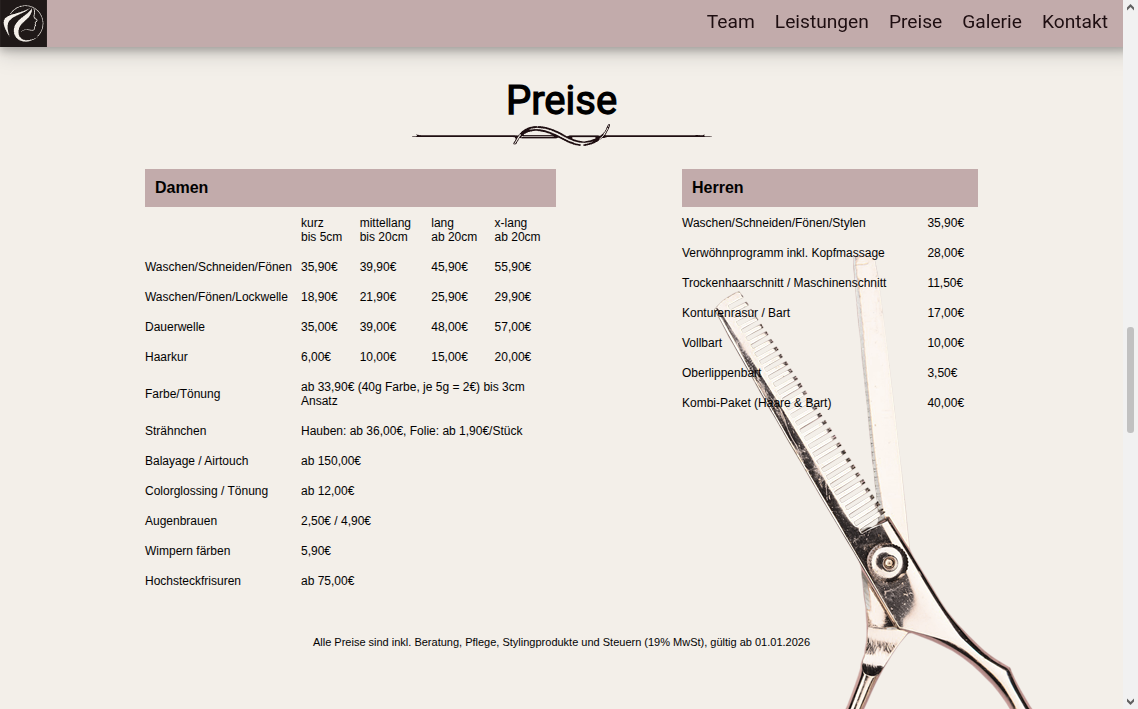
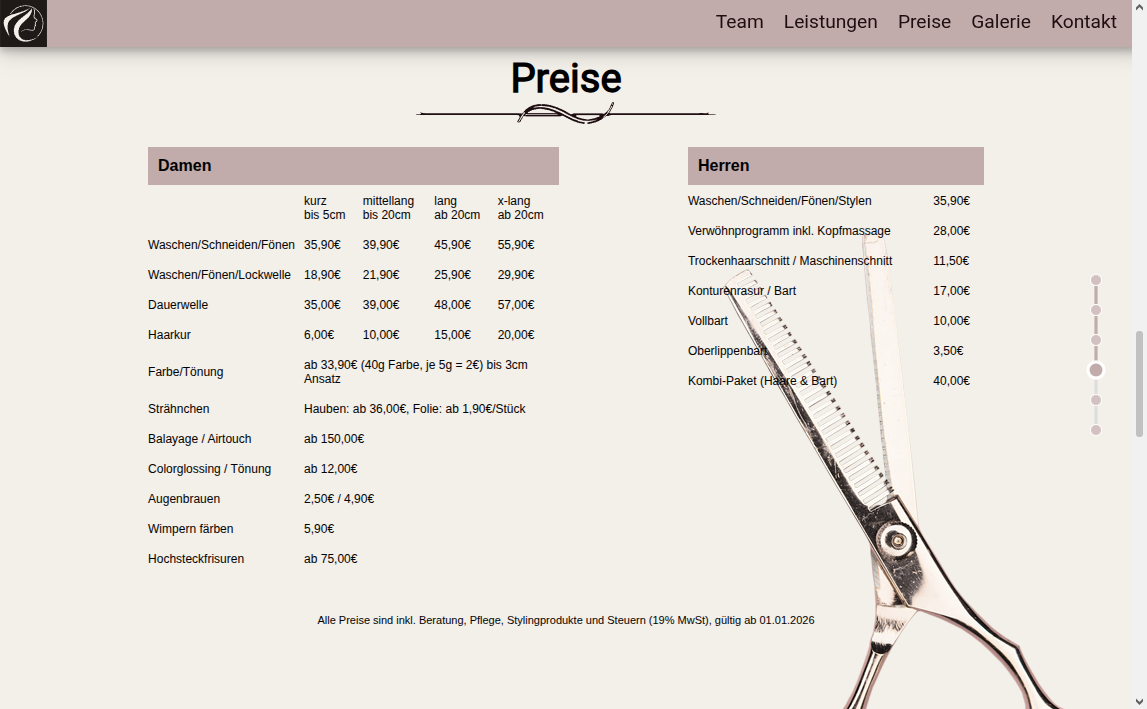
added slider update readme

diff --git a/html/index.html b/html/index.html
@@ -13,10 +13,13 @@
     <link rel="stylesheet" href="https://cdnjs.cloudflare.com/ajax/libs/font-awesome/7.0.1/css/all.min.css"
         integrity="sha512-2SwdPD6INVrV/lHTZbO2nodKhrnDdJK9/kg2XD1r9uGqPo1cUbujc+IYdlYdEErWNu69gVcYgdxlmVmzTWnetw=="
         crossorigin="anonymous" referrerpolicy="no-referrer" />
+    
     <link rel="stylesheet" href="../css/style.css">
+    <link rel="stylesheet" href="../css/progress.css">
     <link rel="stylesheet" href="../css/gallery.css">
 
     <script src="../js/nav.js" defer></script>
+    <script src="../js/progress.js" defer></script>
 </head>
 
 <body>
@@ -52,8 +55,21 @@
     </header>
 
     <main>
+        <!-- PROGRESS SLIDER -->
+        <div class="progress-dots">
+            <div class="progress-track"></div>
+            <div class="progress-fill"></div>
+
+            <span class="dot" data-target="teaser"></span>
+            <span class="dot" data-target="teamAnker"></span>
+            <span class="dot" data-target="leistungAnker"></span>
+            <span class="dot" data-target="preiseAnker"></span>
+            <span class="dot" data-target="galerieAnker"></span>
+            <span class="dot" data-target="kontaktAnker"></span>
+        </div>
+
         <!-- Teaser -->
-        <section class="teaser">
+        <section id="teaser" class="teaser">
             <div class="wrapper">
                 <div class="teaser_div">
                     <div class="teaser_logo">Hair Design DD<br>✂</div>

diff --git a/css/gallery.css b/css/gallery.css
@@ -25,7 +25,7 @@
     overflow: hidden;
     top: 0;
     left: 0;
-    z-index: 1;
+    z-index: 10;
     position: relative;
 }
 
@@ -38,7 +38,7 @@
     background-color: #c2abab;
     box-shadow: 0 4px 8px 0 rgba(0, 0, 0, 0.2), 0 6px 20px 0 rgba(0, 0, 0, 0.19);
     color: #1e0e11;
-    z-index: 5;
+    z-index: 15;
 }
 
 /* The Images */
@@ -85,7 +85,7 @@
     text-decoration: none;
     display: inline-block;
     font-size: 26px;
-    z-index: 5;
+    z-index: 15;
 }
 
 .marginDiaContainer {
@@ -98,7 +98,7 @@
     border: 1px solid black;
     border-radius: 5px;
     background-color: #c2ababaf;
-    z-index: 5;
+    z-index: 15;
 }
 
 .marginDiaFlex {
@@ -157,7 +157,7 @@
     bottom: 2px;
     padding: 5px;
     color: white;
-    z-index: 6;
+    z-index: 16;
     width: 100%;
     height: 130px;
     overflow: hidden;
@@ -221,7 +221,7 @@
     text-decoration: none;
     display: inline-block;
     font-size: 19px;
-    z-index: 6;
+    z-index: 16;
 }
 
 .marginPrevButton {
@@ -236,7 +236,7 @@
     border: none;
     height: 52px;
     width: 52px;
-    z-index: 5;
+    z-index: 15;
 }
 
 .marginPrevButton:hover,
@@ -263,7 +263,7 @@
     border: none;
     height: 52px;
     width: 52px;
-    z-index: 5;
+    z-index: 15;
 }
 
 .marginNextButton:hover {
@@ -290,7 +290,7 @@
     text-decoration: none;
     display: inline-block;
     font-size: 26px;
-    z-index: 5;
+    z-index: 15;
 }
 
 .marginCloseButton:hover,

diff --git a/css/progress.css b/css/progress.css
@@ -1,0 +1,72 @@
+/* RESET */
+
+/* PROGRESS SLIDER */
+.progress-dots {
+    position: fixed;
+    right: 30px;
+    top: 50%;
+    transform: translateY(-50%);
+    display: flex;
+    flex-direction: column;
+    align-items: center;
+    gap: 18px;
+    z-index: 5;
+}
+
+/* Hintergrundlinie */
+.progress-track {
+    position: absolute;
+    top: 0;
+    left: 50%;
+    width: 3px;
+    height: 100%;
+    background: #ddd;
+    transform: translateX(-50%);
+    z-index: -2;
+}
+
+/* Fortschrittslinie */
+.progress-fill {
+    position: absolute;
+    top: 0;
+    left: 50%;
+    width: 3px;
+    height: 0;
+    background: #c2abab;
+    transform: translateX(-50%);
+    z-index: -1;
+    transition: height 0.3s ease;
+}
+
+/* DOTS */
+.dot {
+    width: 12px;
+    height: 12px;
+    border-radius: 50%;
+    background: #d3c1c1;
+    border: 1px solid #ffffff;
+    /* weiße Umrandung */
+    cursor: pointer;
+    transition: all 0.3s ease;
+}
+
+.dot.active {
+    background: #c2abab;
+    border: 2px solid #ffffff;
+    /* stärker beim aktiven Punkt */
+    transform: scale(1.6);
+}
+
+body.overlay-gal-open .progress-dots {
+    opacity: 0;
+    visibility: hidden;
+    pointer-events: none;
+}
+
+
+/* OPTIONAL: Mobile ausblenden */
+@media (max-width: 741px) {
+    .progress-dots {
+        display: none;
+    }
+}

diff --git a/js/progress.js b/js/progress.js
@@ -1,0 +1,41 @@
+"use strict";
+
+$(function () {
+    const dots = document.querySelectorAll('.dot');
+    const sections = [...dots].map(dot =>
+        document.getElementById(dot.dataset.target)
+    );
+    const progressFill = document.querySelector('.progress-fill');
+
+    function setActive(index) {
+        dots.forEach(dot => dot.classList.remove('active'));
+        dots[index].classList.add('active');
+
+        const progressPercent = index / (dots.length - 1);
+        progressFill.style.height = `${progressPercent * 100}%`;
+    }
+
+    // Klick → Scroll
+    dots.forEach((dot, index) => {
+        dot.addEventListener('click', () => {
+            sections[index].scrollIntoView({ behavior: 'smooth' });
+        });
+    });
+
+    // Scroll → Fortschritt
+    window.addEventListener('scroll', () => {
+        let activeIndex = 0;
+
+        sections.forEach((section, index) => {
+            const rect = section.getBoundingClientRect();
+            if (rect.top <= window.innerHeight / 2) {
+                activeIndex = index;
+            }
+        });
+
+        setActive(activeIndex);
+    });
+
+    // Initialer Zustand
+    setActive(0);
+});

diff --git a/js/nav.js b/js/nav.js
@@ -116,6 +116,7 @@ $(function () {
     // --- Overlay schließen ---
     const closeFn = () => {
         overlayGal.hide();
+        hideSlider();
         $("body").removeClass("overlay-active");
         stopFn();
         counter = 0;
@@ -136,6 +137,7 @@ $(function () {
         counter = pic.index(this);
         rotateDeg = 0;
         updateGallery();
+        showSlider();
         overlayGal.show();
         $("body").addClass("overlay-active");
     });
@@ -165,5 +167,17 @@ $(function () {
         updateGallery();
         elem.fadeIn(300);
     }
+
+    // Overlay öffnen
+    function showSlider() {
+        document.body.classList.add('overlay-gal-open');
+    }
+
+    // Overlay schließen
+    function hideSlider() {
+        document.body.classList.remove('overlay-gal-open');
+    }
+
+
 
 });

diff --git a/css/style.css b/css/style.css
@@ -76,12 +76,12 @@ section {
 }
 
 .teaser_div {
-    /*background-color: rgb(138, 104, 54);*/
+    /* background-color: rgb(179, 177, 175); */
     position: absolute;
-    bottom: 180px;
-    right: 2%;
-    width: 340px;
-    height: 390px;
+    top: 30vh;
+    right: 6%;
+    width: 330px;
+    height: 300px;
     z-index: 2;
 }
 
@@ -116,7 +116,7 @@ section {
     text-align: center;
     justify-content: center;
     color: white;
-    width: 270px;
+    width: 250px;
     margin: auto;
 }
 
